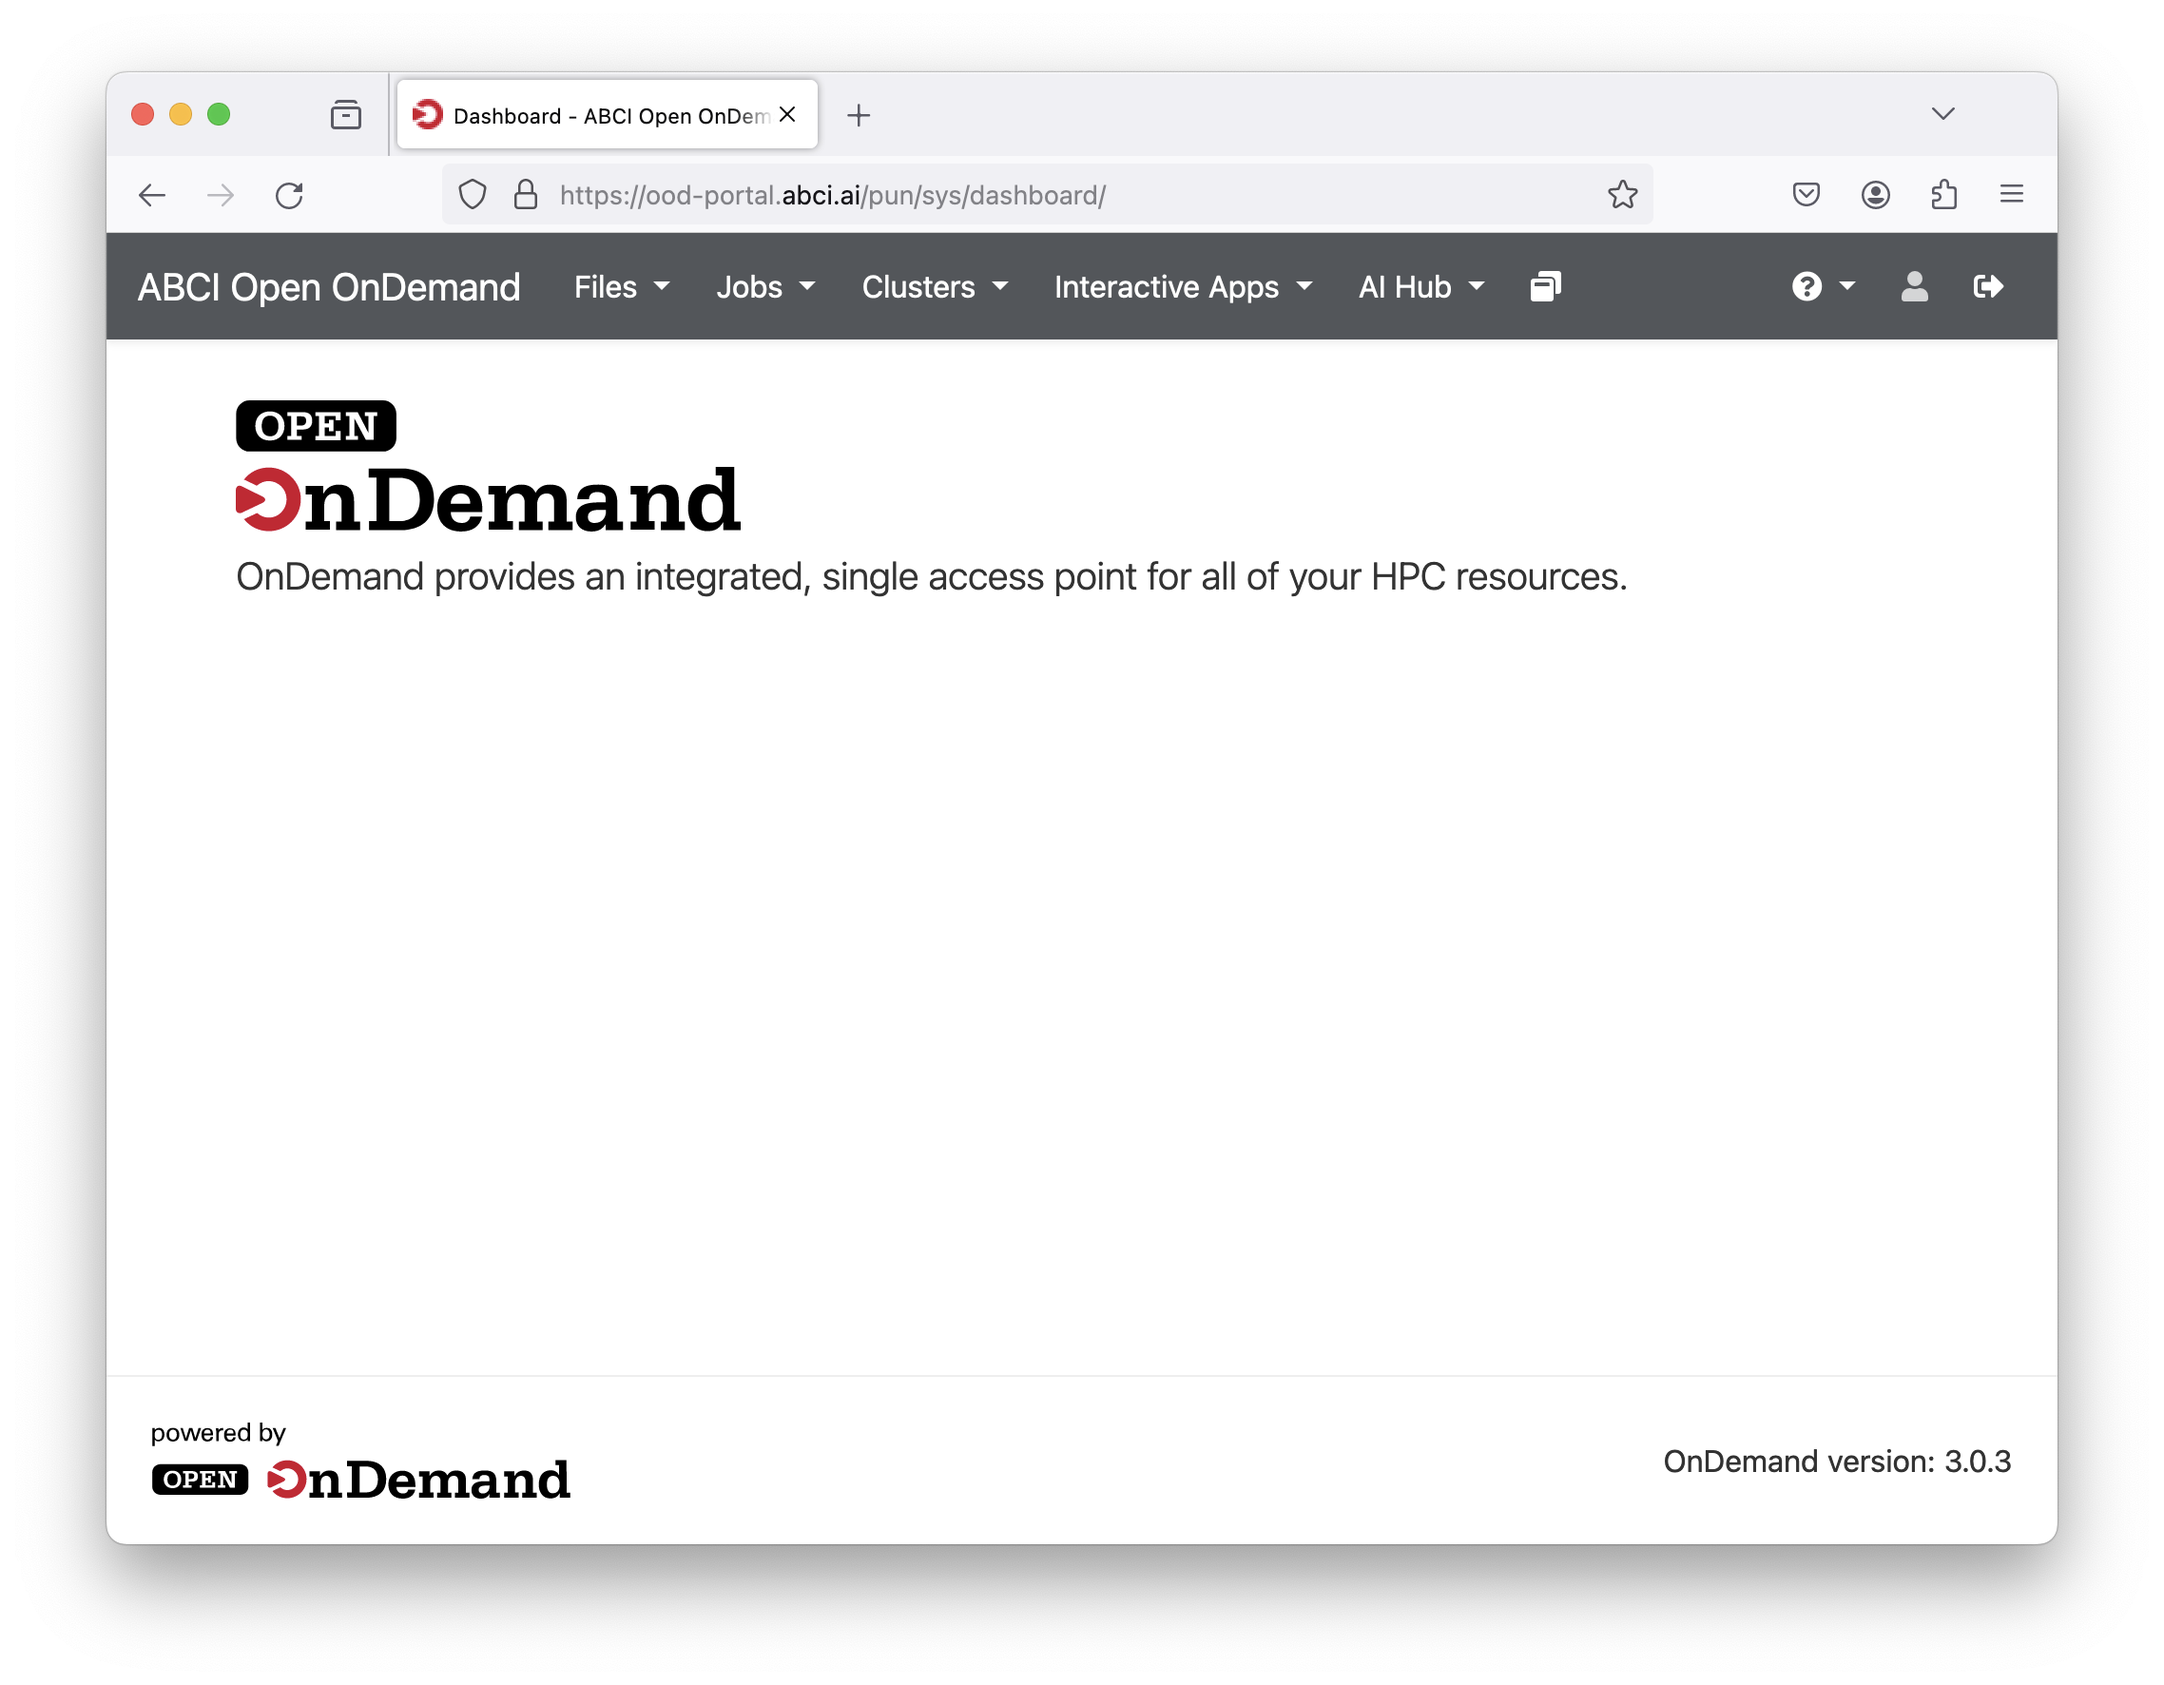
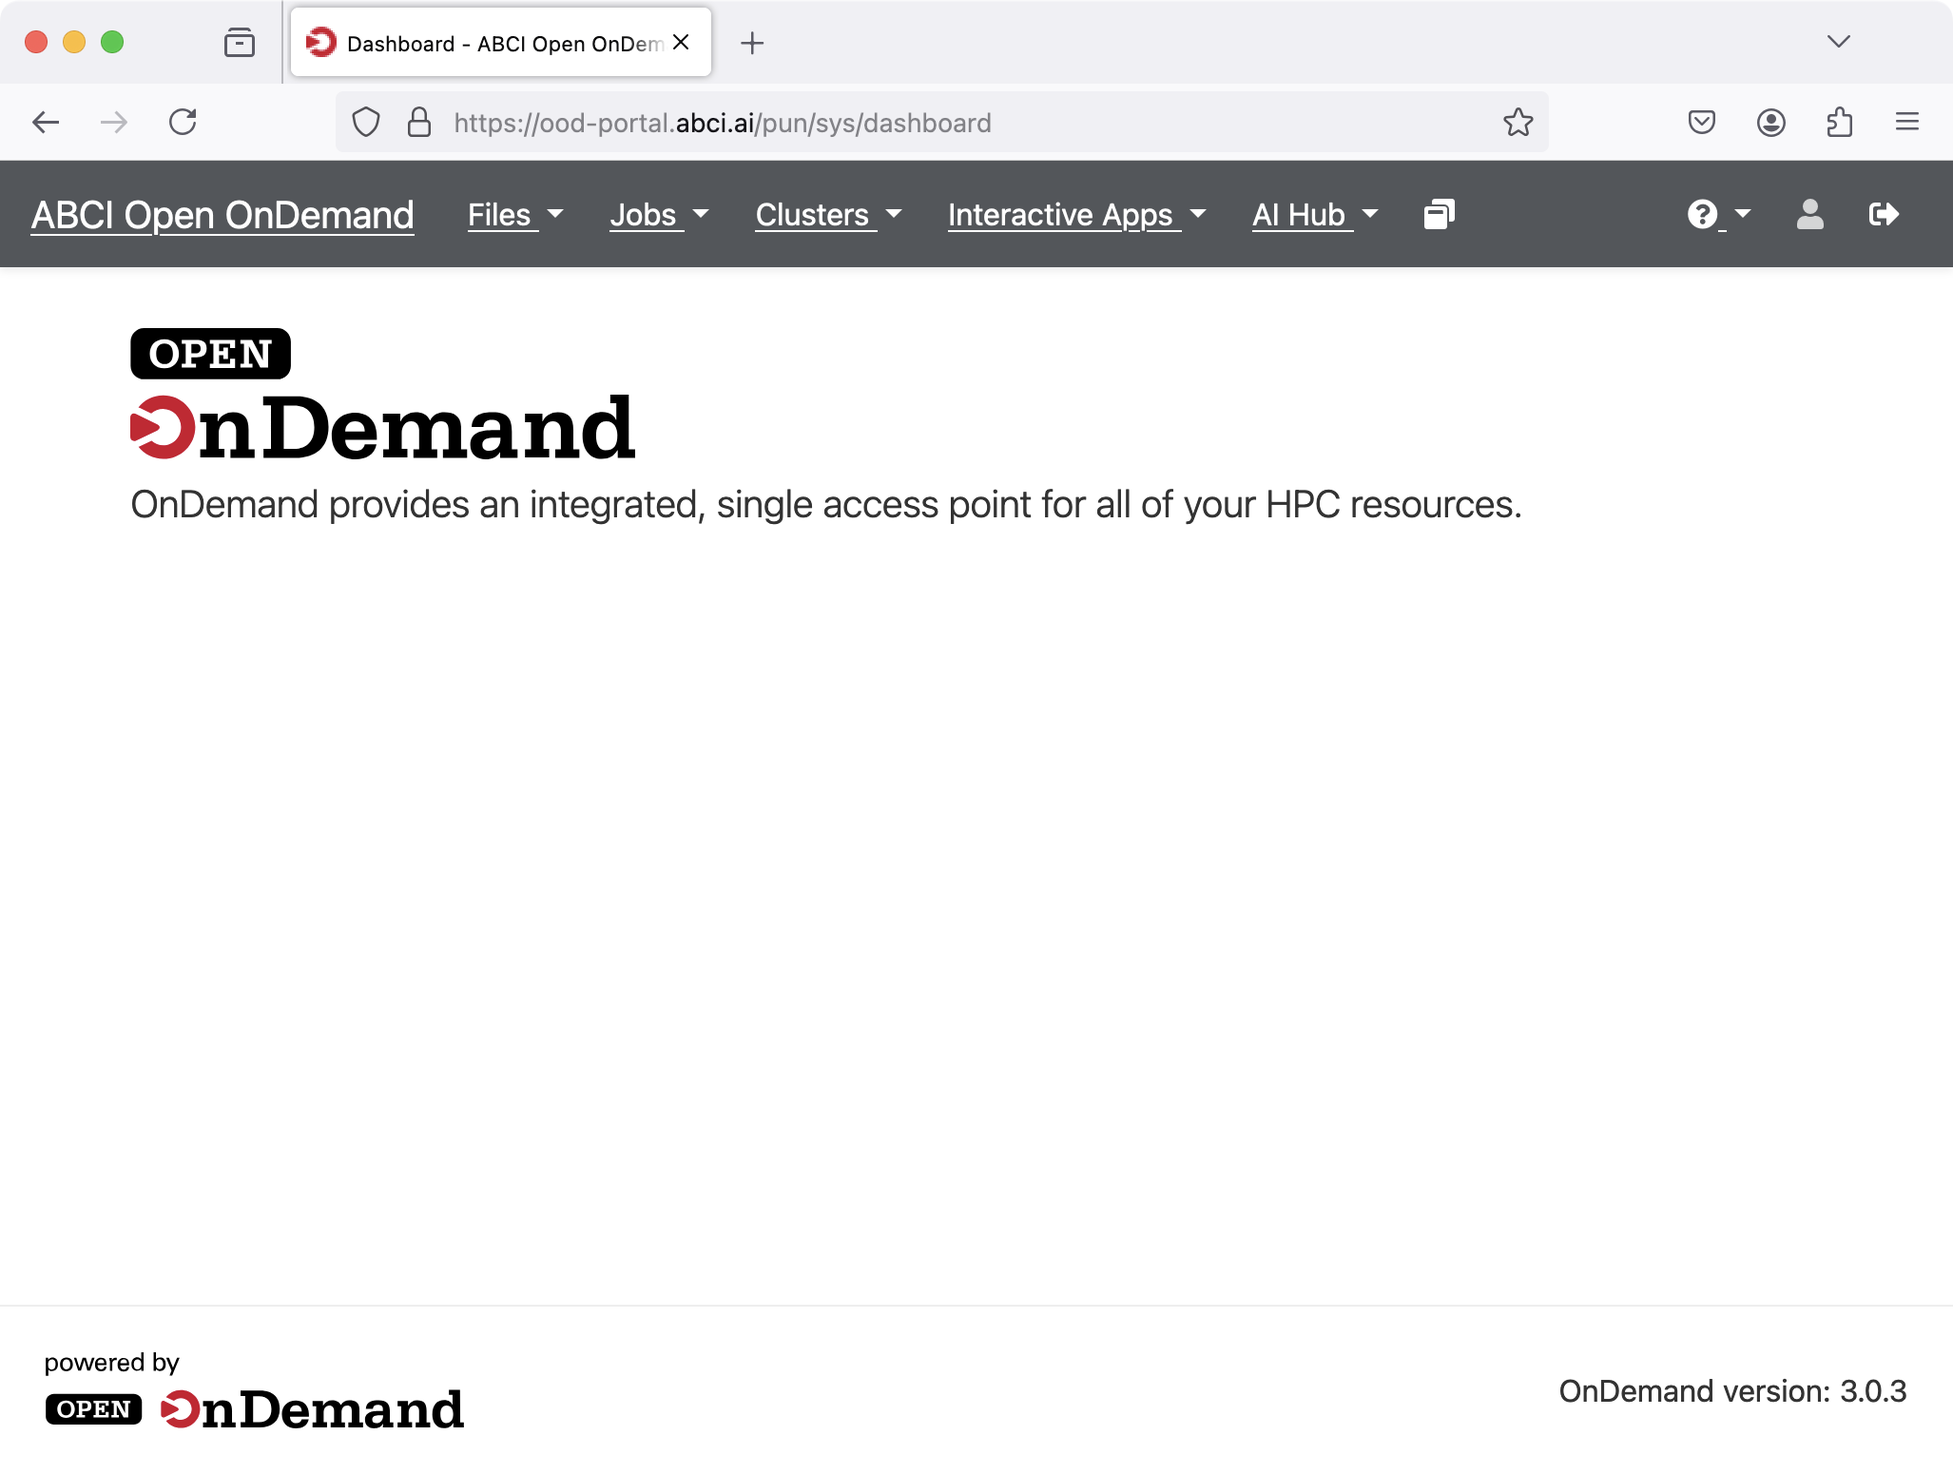
Updated screenshots to have no window shadows.

Changed region(s): [[0.0, 0.0, 1.0, 0.991]]

diff --git a/en/docs/open-ondemand/index.md b/en/docs/open-ondemand/index.md
@@ -10,6 +10,8 @@ The following features is available on the web browser, making it easier to use 
 * File operations in the home areas and the group areas
 * Use of web applications such as Jupyter Lab
 
+![Open OnDemand top page](img/ondemand-top-page.png){width=640}
+
 !!! caution
     Open OnDemand is released as an experimental feature.
     The service may change without notice, and responses to inquiries may take some time.
